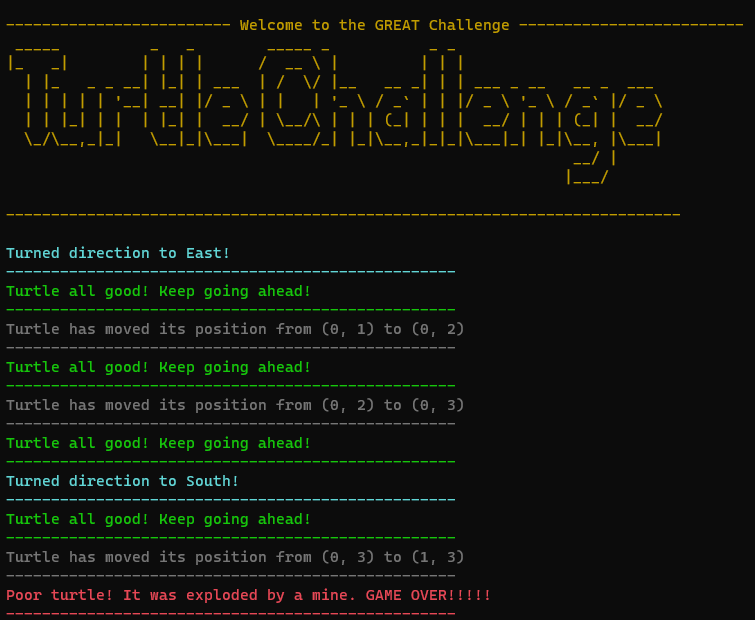
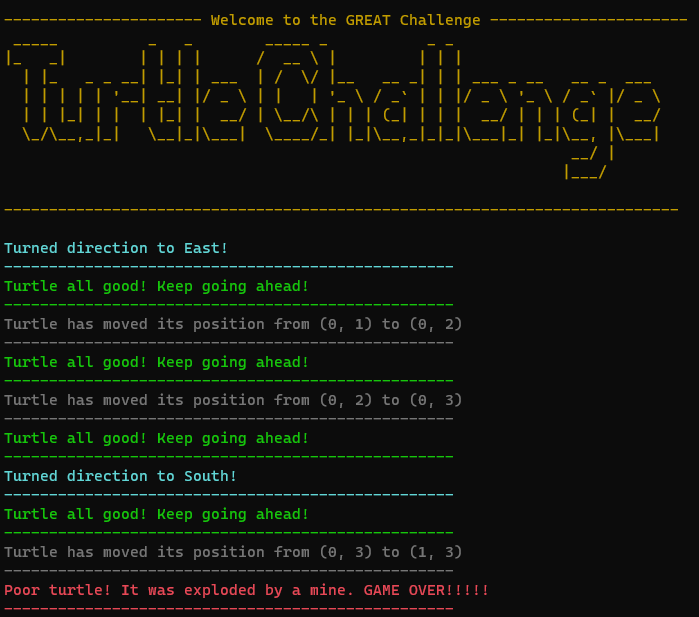
Changed image

Changed region(s): [[0.0, 0.3387, 0.9013, 1.0], [0.0, 0.0, 0.9914, 0.3079], [0.9313, 0.1848, 0.9614, 0.2156]]

diff --git a/src/TurtleChallenge.Console/Program.cs b/src/TurtleChallenge.Console/Program.cs
@@ -13,7 +13,7 @@ if (string.IsNullOrWhiteSpace(args[0]) || string.IsNullOrWhiteSpace(args[1]))
 
 Console.WriteLine();
 Console.ForegroundColor = ConsoleColor.DarkYellow;
-Console.WriteLine("------------------------- Welcome to the GREAT Challenge -------------------------");
+Console.WriteLine("---------------------- Welcome to the GREAT Challenge ----------------------");
 Console.WriteLine(Figgle.FiggleFonts.Doom.Render("Turtle Challenge"));
 Console.WriteLine(new string('-', 75));
 Console.ResetColor();
